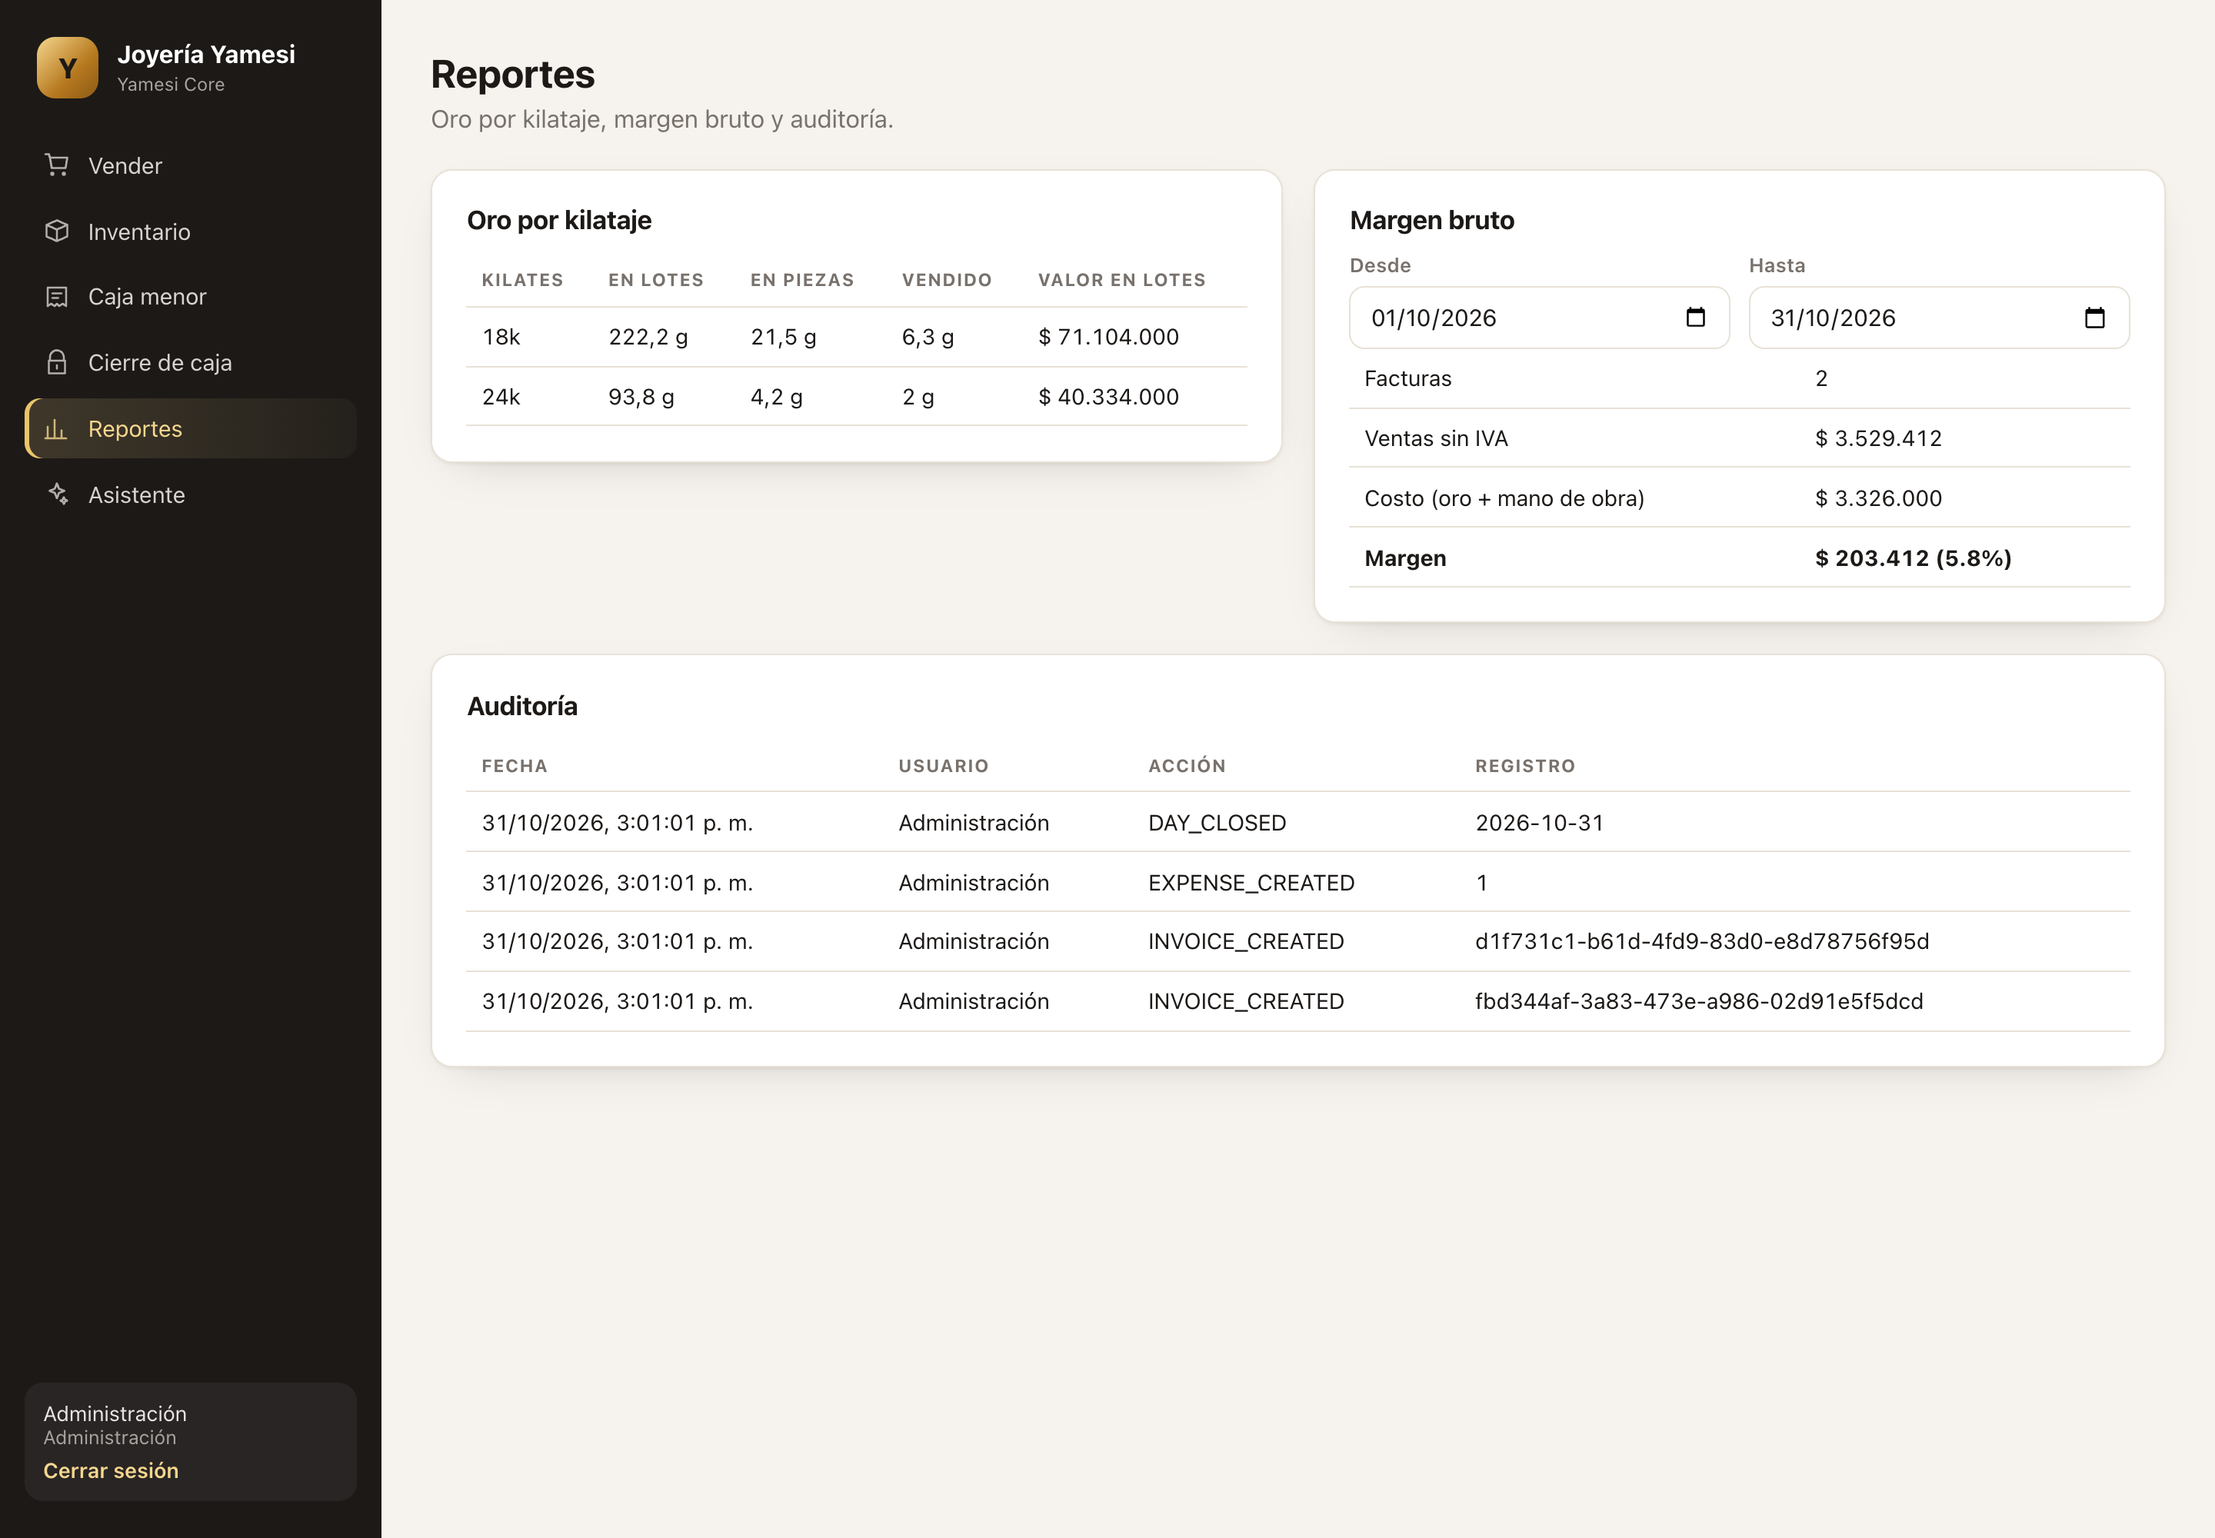
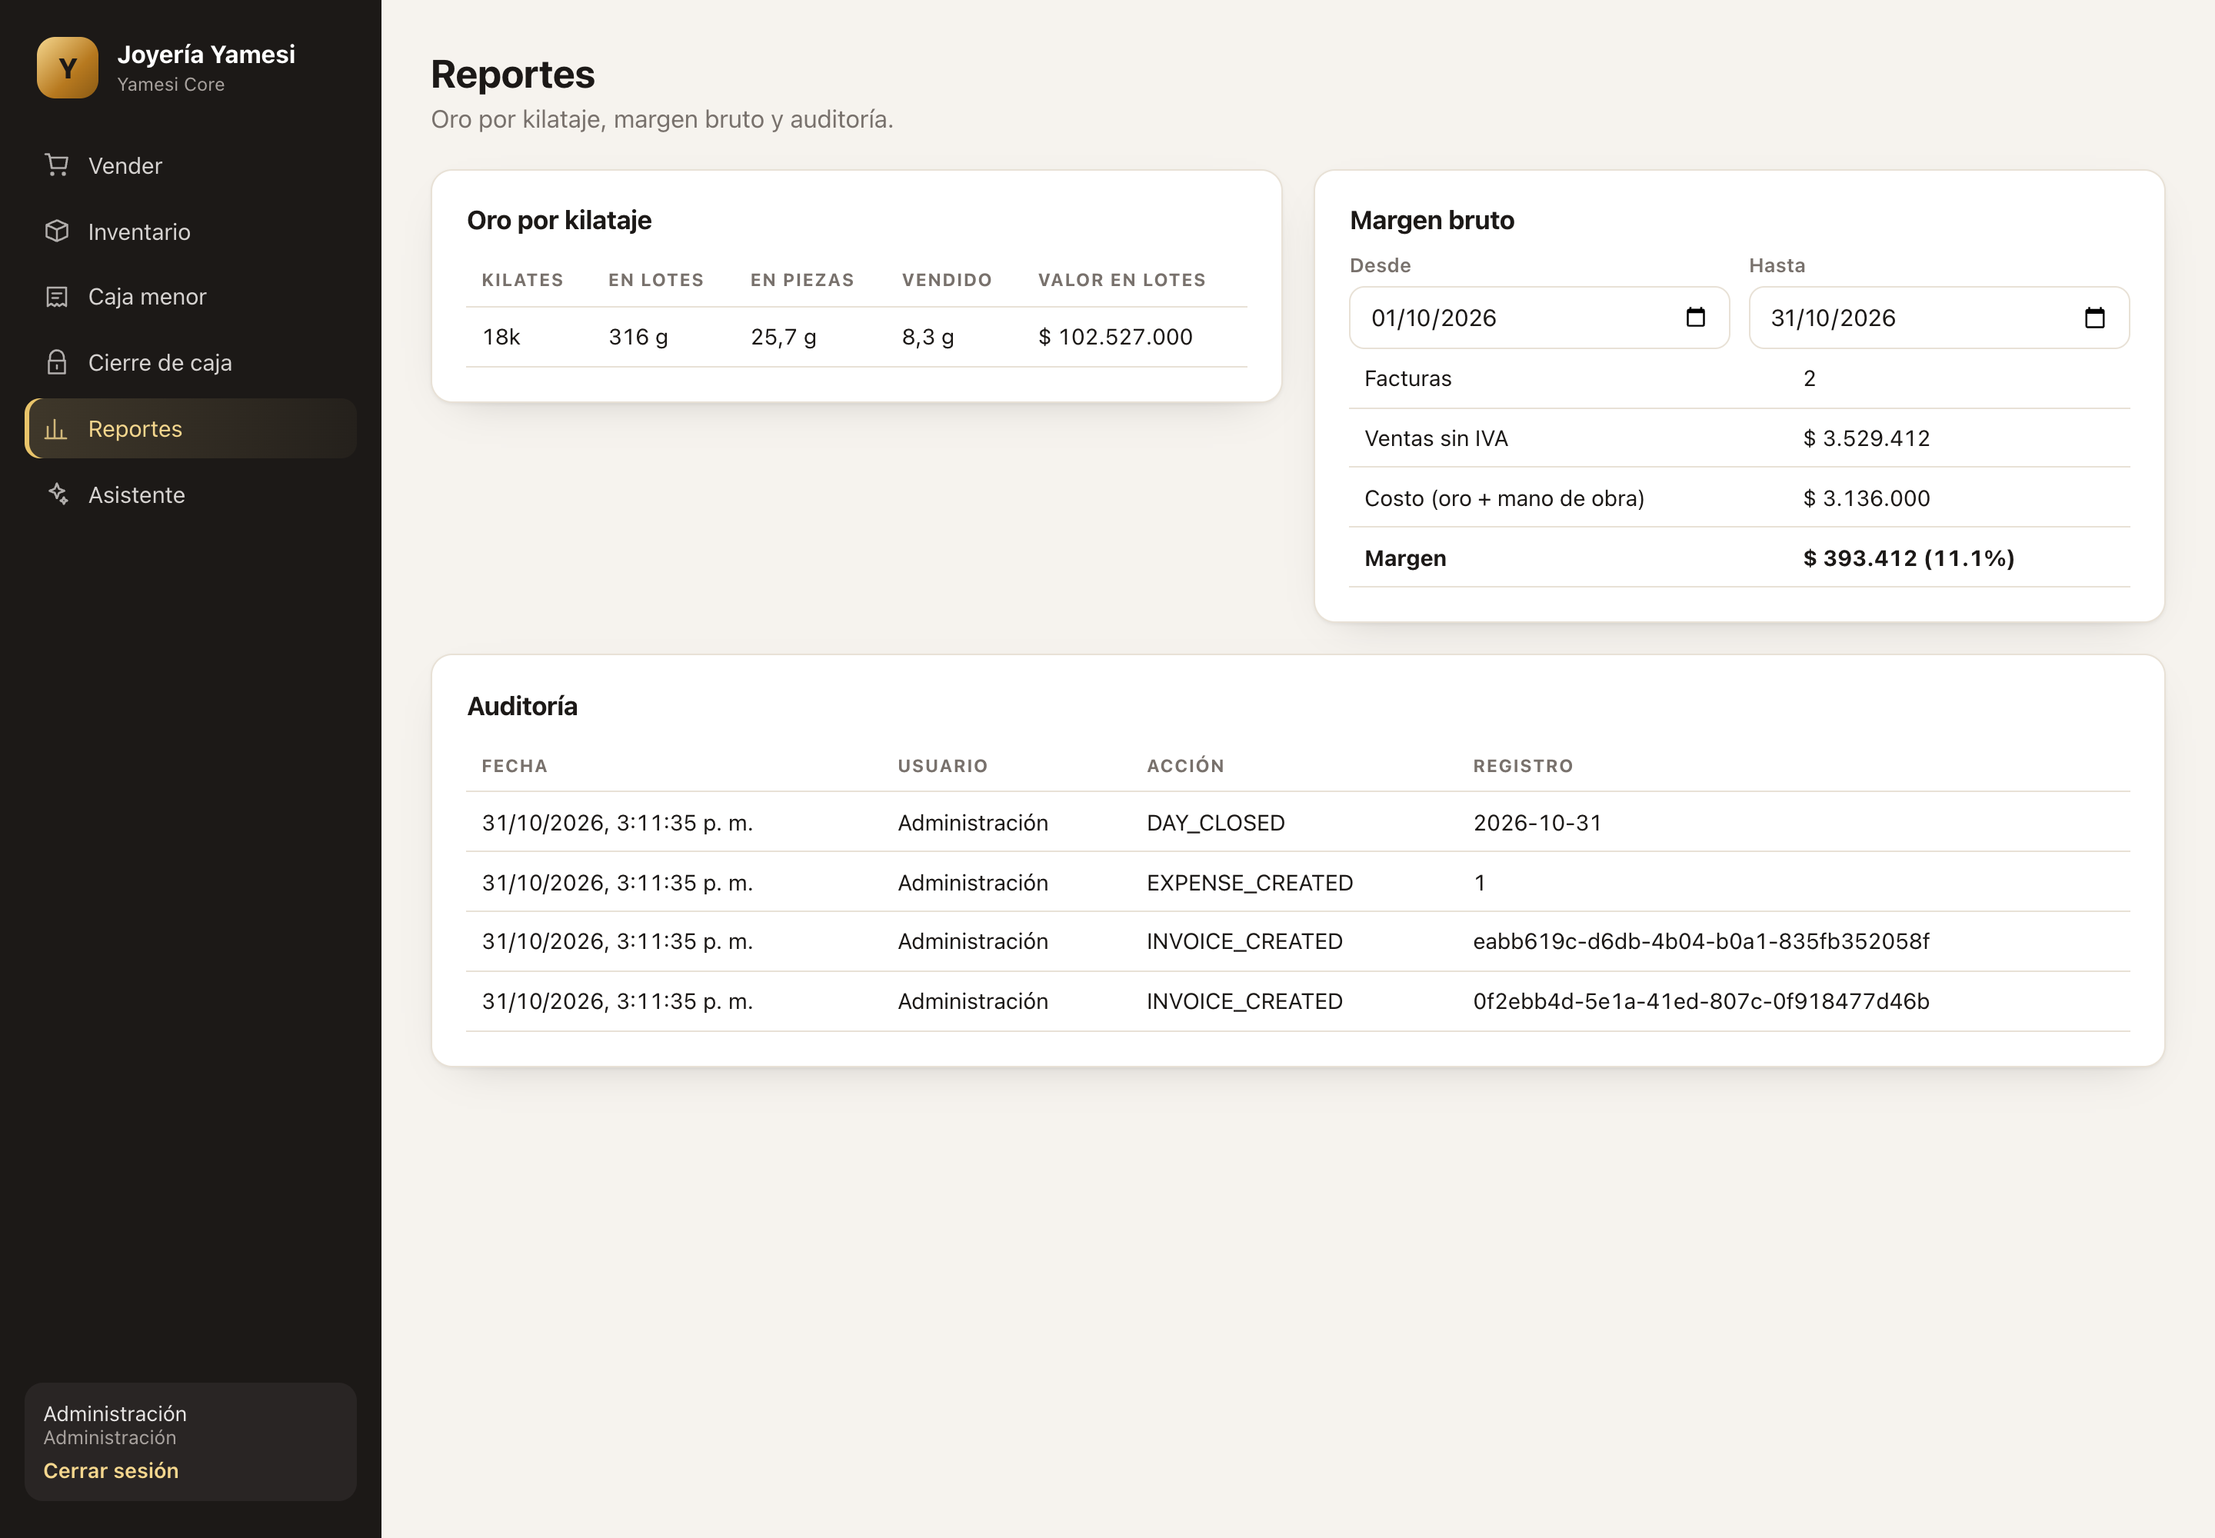
fix: fabrication karats only, and a clean invoice layout
24k is pure gold and too soft to make jewelry: lots now accept 10k, 14k
and 18k (migration 003, NOT VALID so historical rows stay readable), the
demo lots are both 18k, and a test rejects a 24k lot. The invoice drops
the diagonal watermark and the demo labels in the header; its footer
still states that it was generated for the DIAN test environment and
not transmitted. 51 tests.

diff --git a/backend/src/invoices/invoice-pdf.ts b/backend/src/invoices/invoice-pdf.ts
@@ -59,7 +59,7 @@ export interface InvoicePdfData {
 const PAYMENT_LABELS = { CASH: 'Efectivo', CARD: 'Tarjeta débito/crédito', TRANSFER: 'Transferencia bancaria' } as const;
 const DOCUMENT_LABELS: Record<string, string> = { CC: 'C.C.', CE: 'C.E.', NIT: 'NIT', PP: 'Pasaporte' };
 // Gold fineness ("ley") in thousandths for the usual karats.
-const FINENESS: Record<number, number> = { 24: 999, 22: 916, 18: 750, 14: 585, 10: 417 };
+const FINENESS: Record<number, number> = { 18: 750, 14: 585, 10: 417 };
 
 const COLOR = { ink: '#1c1917', muted: '#57534e', line: '#e7e5e4', band: '#1c1917', gold: '#b45309', goldSoft: '#fdf6e3', zebra: '#fafaf9' };
 const PAGE = { left: 40, right: 572, width: 532, footerTop: 650 };
@@ -105,18 +105,7 @@ export async function renderInvoicePdf(data: InvoicePdfData): Promise<Buffer> {
       doc.fillColor('#d6d3d1').font('Helvetica').fontSize(8).text('Representación gráfica · Ambiente de pruebas', 330, 70, { width: 242, align: 'right' });
     };
 
-    const watermark = () => {
-      doc.save();
-      doc.translate(306, 470).rotate(-28);
-      doc.fillColor('#b45309').opacity(0.06).font('Helvetica-Bold');
-      doc.fontSize(60).text('DEMOSTRACIÓN', -300, -40, { width: 600, align: 'center', lineBreak: false });
-      doc.fontSize(22).text('SIN VALIDEZ FISCAL', -300, 26, { width: 600, align: 'center', lineBreak: false });
-      doc.restore();
-      doc.opacity(1);
-    };
-
     drawHeader();
-    watermark();
 
     // ---- Issuer, issue and buyer blocks ----
     const blockTop = 112;
@@ -162,8 +151,7 @@ export async function renderInvoicePdf(data: InvoicePdfData): Promise<Buffer> {
 
     doc.fillColor(COLOR.muted).font('Helvetica').fontSize(7).text(
       `Autorización de numeración de facturación: Resolución DIAN N.º ${c.DIAN_RESOLUTION_NUMBER} del ${c.DIAN_RESOLUTION_DATE}, ` +
-        `prefijo ${c.INVOICE_PREFIX}, del ${integer.format(c.DIAN_RANGE_FROM)} al ${integer.format(c.DIAN_RANGE_TO)}, vigente hasta ${c.DIAN_RESOLUTION_VALID_UNTIL}. ` +
-        'Datos de demostración.',
+        `prefijo ${c.INVOICE_PREFIX}, del ${integer.format(c.DIAN_RANGE_FROM)} al ${integer.format(c.DIAN_RANGE_TO)}, vigente hasta ${c.DIAN_RESOLUTION_VALID_UNTIL}.`,
       PAGE.left,
       y,
       { width: PAGE.width },
@@ -193,7 +181,6 @@ export async function renderInvoicePdf(data: InvoicePdfData): Promise<Buffer> {
       if (y + rowHeight > PAGE.footerTop - 10) {
         doc.addPage();
         drawHeader();
-        watermark();
         y = 112;
         tableHeader();
       }
@@ -222,7 +209,6 @@ export async function renderInvoicePdf(data: InvoicePdfData): Promise<Buffer> {
     if (y + 150 > PAGE.footerTop) {
       doc.addPage();
       drawHeader();
-      watermark();
       y = 112;
     }
     y += 12;
@@ -265,9 +251,8 @@ export async function renderInvoicePdf(data: InvoicePdfData): Promise<Buffer> {
       doc.fillColor(COLOR.muted).font('Helvetica-Bold').fontSize(7).text('CUFE', textX, top + 12);
       doc.fillColor(COLOR.ink).font('Courier').fontSize(7).text(data.cufe, textX, top + 22, { width: PAGE.width - 100 });
       doc.fillColor(COLOR.muted).font('Helvetica').fontSize(7).text(
-        'Representación gráfica de la factura electrónica de venta. Documento de DEMOSTRACIÓN con datos ficticios, ' +
-          'generado en ambiente de pruebas: no fue transmitido ni validado por la DIAN y no tiene validez fiscal. ' +
-          'El código QR contiene los datos del documento y la URL de consulta del catálogo de la DIAN.',
+        'Representación gráfica de la factura electrónica de venta. Generada en ambiente de pruebas: no ha sido transmitida ' +
+          'ni validada por la DIAN y no tiene validez fiscal. El código QR contiene los datos del documento y la URL de consulta de la DIAN.',
         textX,
         top + 46,
         { width: PAGE.width - 100 },

diff --git a/backend/test/e2e/inventory.e2e-spec.ts b/backend/test/e2e/inventory.e2e-spec.ts
@@ -47,6 +47,18 @@ describe('Gold lots and pieces', () => {
     expect(response.body).toMatchObject({ code: 'L-00001', totalGrams: 125.375, remainingGrams: 125.375 });
   });
 
+  it('accepts only fabrication karats: a 24k (pure gold) lot is rejected', async () => {
+    const lot = (karat: number) =>
+      ctx
+        .http()
+        .post('/api/lots')
+        .set('Authorization', `Bearer ${adminToken}`)
+        .send({ karat, supplier: 'Fundidora', grams: 10, costPerGram: 320_000, purchasedOn: '2026-10-01' });
+
+    expect((await lot(24)).status).toBe(400);
+    expect([(await lot(18)).status, (await lot(14)).status, (await lot(10)).status]).toEqual([201, 201, 201]);
+  });
+
   it('only lets admins register lots', async () => {
     await ctx
       .http()
@@ -95,17 +107,17 @@ describe('Gold lots and pieces', () => {
 
   it('reports gold by karat across lots, stock and sales', async () => {
     const lot18 = await createLot(ctx.pool, adminId, { karat: 18, grams: 100, costPerGram: 300_000 });
-    const lot24 = await createLot(ctx.pool, adminId, { karat: 24, grams: 20, costPerGram: 400_000 });
+    const lot14 = await createLot(ctx.pool, adminId, { karat: 14, grams: 20, costPerGram: 400_000 });
     await createPiece(ctx.pool, adminId, lot18, { goldMg: 10_000 });
-    const sold = await createPiece(ctx.pool, adminId, lot24, { goldMg: 5_000 });
+    const sold = await createPiece(ctx.pool, adminId, lot14, { goldMg: 5_000 });
     await ctx.pool.query("UPDATE pieces SET status = 'SOLD' WHERE id = $1", [sold]);
 
     const response = await ctx.http().get('/api/reports/gold-inventory').set('Authorization', `Bearer ${adminToken}`);
 
     expect(response.status).toBe(200);
     expect(response.body).toEqual([
+      { karat: 14, gramsInLots: 15, gramsInStock: 0, gramsSold: 5, lotsValueAtCost: 6_000_000 },
       { karat: 18, gramsInLots: 90, gramsInStock: 10, gramsSold: 0, lotsValueAtCost: 27_000_000 },
-      { karat: 24, gramsInLots: 15, gramsInStock: 0, gramsSold: 5, lotsValueAtCost: 6_000_000 },
     ]);
   });
 });

diff --git a/backend/src/database/seed.ts b/backend/src/database/seed.ts
@@ -25,23 +25,22 @@ export async function seedDemoData(pool: Pool, config: AppConfig): Promise<void>
     );
     const adminId = users.find((user) => user.role === 'ADMIN')!.id;
 
-    const { rows: lots } = await client.query<{ id: number; karat: number }>(
+    const { rows: lots } = await client.query<{ id: number; supplier: string }>(
       `INSERT INTO gold_lots (karat, supplier, total_mg, remaining_mg, cost_per_gram, purchased_on, created_by) VALUES
          (18, 'Fundidora Andina (ficticia)', 250000, 250000, 320000, CURRENT_DATE - 20, $1),
-         (24, 'Metales del Valle (ficticia)', 100000, 100000, 430000, CURRENT_DATE - 10, $1)
-       RETURNING id, karat`,
+         (18, 'Metales del Valle (ficticia)', 100000, 100000, 335000, CURRENT_DATE - 10, $1)
+       RETURNING id, supplier`,
       [adminId],
     );
-    const lot18 = lots.find((lot) => lot.karat === 18)!.id;
-    const lot24 = lots.find((lot) => lot.karat === 24)!.id;
+    const [andina, valle] = lots.map((lot) => lot.id);
 
     const pieces: Array<[string, string, number, number, number, number]> = [
-      ['Anillo solitario', 'ANILLO', lot18, 3500, 180000, 1650000],
-      ['Cadena tejido lazo 50 cm', 'CADENA', lot18, 12000, 350000, 5200000],
-      ['Aretes argolla pequeña', 'ARETES', lot18, 2800, 150000, 1350000],
-      ['Pulsera esclava', 'PULSERA', lot18, 9500, 300000, 4150000],
-      ['Dije corazón', 'DIJE', lot24, 2000, 120000, 1200000],
-      ['Anillo de compromiso', 'ANILLO', lot24, 4200, 250000, 2600000],
+      ['Anillo solitario', 'ANILLO', andina, 3500, 180000, 1650000],
+      ['Cadena tejido lazo 50 cm', 'CADENA', andina, 12000, 350000, 5200000],
+      ['Aretes argolla pequeña', 'ARETES', andina, 2800, 150000, 1350000],
+      ['Pulsera esclava', 'PULSERA', andina, 9500, 300000, 4150000],
+      ['Dije corazón', 'DIJE', valle, 2000, 120000, 1200000],
+      ['Anillo de compromiso', 'ANILLO', valle, 4200, 250000, 2600000],
     ];
 
     for (const [name, category, lotId, goldMg, laborCost, price] of pieces) {

diff --git a/backend/src/config.ts b/backend/src/config.ts
@@ -37,10 +37,10 @@ const schema = z.object({
   // Issuer data printed on every invoice (Estatuto Tributario art. 617). The defaults are fictitious on purpose:
   // this repository renders the graphic representation only and never transmits invoices to the DIAN.
   STORE_NAME: z.string().min(2).default('Joyería Yamesi'),
-  STORE_LEGAL_NAME: z.string().min(2).default('Joyería Yamesi S.A.S. (datos de demostración)'),
+  STORE_LEGAL_NAME: z.string().min(2).default('Joyería Yamesi S.A.S.'),
   STORE_NIT: z.string().regex(/^\d{5,10}-\d$/, 'NIT with check digit, e.g. 900123456-7').default('000000000-0'),
   STORE_TAX_REGIME: z.string().min(2).default('Responsable de IVA'),
-  STORE_ADDRESS: z.string().min(2).default('Dirección de demostración, Medellín, Antioquia'),
+  STORE_ADDRESS: z.string().min(2).default('Medellín, Antioquia'),
   STORE_PHONE: z.string().min(7).default('+57 604 000 0000'),
   STORE_EMAIL: z.email().default('facturacion@yamesi.local'),
   VAT_RATE_PERCENT: z.coerce.number().int().min(0).max(100).default(19),

diff --git a/frontend/src/pages/Inventory.tsx b/frontend/src/pages/Inventory.tsx
@@ -127,9 +127,9 @@ function NewLotForm({ token, onCreated, onUnauthorized }: FormProps) {
       <label>
         Kilates
         <select value={form.karat} onChange={set('karat')}>
-          <option value="14">14k</option>
-          <option value="18">18k</option>
-          <option value="24">24k</option>
+          <option value="18">18k (ley 750)</option>
+          <option value="14">14k (ley 585)</option>
+          <option value="10">10k (ley 417)</option>
         </select>
       </label>
       <label>

diff --git a/backend/src/lots/lots.module.ts b/backend/src/lots/lots.module.ts
@@ -10,7 +10,8 @@ import { DatabaseService } from '../database/database.service';
 
 const createLotSchema = z
   .object({
-    karat: z.union([z.literal(14), z.literal(18), z.literal(24)]),
+    // Fabrication karats only: 24k (pure gold) is too soft to make jewelry.
+    karat: z.union([z.literal(10), z.literal(14), z.literal(18)]),
     supplier: z.string().trim().min(2).max(120),
     grams: z
       .number()

diff --git a/README.md b/README.md
@@ -30,7 +30,7 @@ This is an **independent rebuild with synthetic data** of a system I built and s
 - **Frontend:** React 19 + TypeScript (Vite), unprivileged nginx
 - **AI (optional):** Qwen2.5 3B via Ollama, with tool calling
 - **Invoice:** PDFKit and `qrcode`, CUFE with SHA-384 as defined by the DIAN
-- **Quality:** Jest + Supertest, 50 tests (22 unit, 26 integration against PostgreSQL, 2 against a real S3 server), CodeQL, Gitleaks, `npm audit`, Dependabot
+- **Quality:** Jest + Supertest, 51 tests (22 unit, 27 integration against PostgreSQL, 2 against a real S3 server), CodeQL, Gitleaks, `npm audit`, Dependabot
 
 ## Architecture
 
@@ -97,7 +97,7 @@ What the PDF carries, and where the requirement comes from:
 | Buyer: name, document type and number (or "consumidor final" 222222222222), email, phone, address | Art. 617 c); the email is where an electronic invoice is delivered |
 | Issue date and time with UTC offset, due date, payment form (contado) and means, card or transfer reference | Art. 617 e); Resolución DIAN 000165 de 2023 |
 | Numbering authorization: resolution number, date, prefix, range and validity | Resolución 000165 de 2023 |
-| Each piece: code, description, karat, fineness ("ley 750" for 18k), gold weight, unit value before VAT, VAT, total | Art. 617 f); prices include VAT, so each line is split into base + 19% VAT, which always add up to the price |
+| Each piece: code, description, karat (fabrication karats only: 18k, 14k, 10k), fineness ("ley 750" for 18k), gold weight, unit value before VAT, VAT, total | Art. 617 f); prices include VAT, so each line is split into base + 19% VAT, which always add up to the price |
 | Subtotal, VAT, total, and the total in words ("TRES MILLONES DE PESOS M/CTE") | Art. 617 g) |
 | Lifetime warranty on the gold (karat and weight), plus the legal warranty of Ley 1480 de 2011 | Store policy; text configurable with `GOLD_WARRANTY_TEXT` |
 | CUFE (SHA-384) and a QR with the document data and the DIAN lookup URL, on every page | Resolución 000165 de 2023, technical annex 11.1.6 and 11.1.7 |
@@ -106,7 +106,7 @@ What the PDF carries, and where the requirement comes from:
 - **Idempotent invoices:** every invoice field is part of the request hash. Repeating a request with the same `Idempotency-Key` returns the same invoice, number and CUFE. The same key with different data (another email, for instance) is a `409`.
 - **DIAN numbering range:** a number outside the authorized range is refused, without consuming the number or the pieces.
 - **Store settings:** issuer data, resolution and warranty text come from environment variables (`STORE_*`, `DIAN_*`, `INVOICE_PREFIX`, `VAT_RATE_PERCENT`). The defaults are **fictitious on purpose**: NIT `000000000-0`, resolution `00000000000000`.
-- **Not valid for tax purposes:** every PDF carries a "DEMOSTRACIÓN · SIN VALIDEZ FISCAL" watermark and is generated for the test environment. See the limitations below.
+- **Not valid for tax purposes:** the PDF is generated for the DIAN test environment, and its footer says it was not transmitted or validated. See the limitations below.
 
 ## Demo: one business day
 
